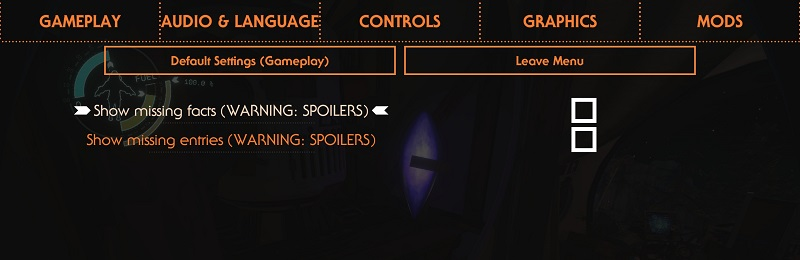
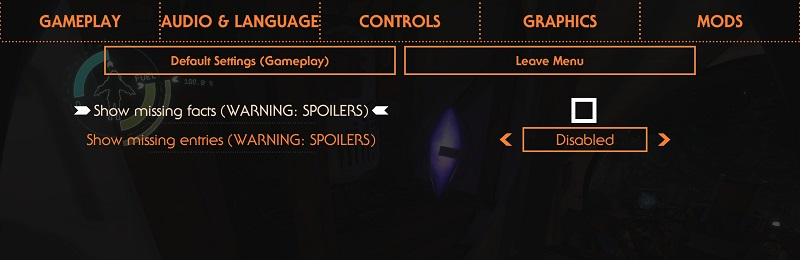
Update README with Unnamed option

Changed region(s): [[0.5, 0.4308, 0.5938, 0.8], [0.625, 0.4615, 0.8438, 0.5846], [0.1562, 0.3077, 0.2188, 0.3692]]

diff --git a/README.md b/README.md
@@ -6,7 +6,7 @@ Marks ship log entries that have missing facts required for the Archaeologist ac
 
 ## Basic usage
 
-In Outer Wilds, when an entry **isn't** displayed as *"There's more to explore here."* it doesn't mean that all of its facts are revealed, there are some facts that don't affect that mark, and some of them are even required for the Archaeologist achievement. For example, the Timber Hearth Village entry has 2 facts that are needed for the achievement, but this entry is never marked as *"There's more to explore here."*:
+In Outer Wilds, when an ship log entry **isn't** displayed with the *"There's more to explore here."* mark it doesn't mean that all of its facts are revealed. There are some facts that don't affect that mark, and some of them are even required for the Archaeologist achievement. For example, the Timber Hearth Village entry has 2 facts that are needed for the achievement, but this entry is never marked as *"There's more to explore here."*:
 
 ![example-disabled](images/example-disabled.jpg)
 
@@ -44,6 +44,16 @@ A setting to show all unrevealed entries that have facts that Archaeologist requ
 
 Sometimes it could look like your ship log is complete when it actually isn't because there are entire entries aren't revealed. If you are in this situation, you could enable this setting to show them.
 
-![example-showall-entries](images/example-showall-entries.png)
+The entries will be displayed as rumors (no photos, only the orange "?") and without facts (the description will be empty). There are two possible enabled options for this setting: `Unnamed` and `Named` (if you don't want to show the missing entries, select `Disabled`, this is the default option). 
 
-**Beware of spoilers**, the entries will be displayed as rumors (no photos, only the "?") and without facts (the description will be empty) but it with display the real entry name, that could reveal you important information. Don't worry about the DLC, none of the logs added by Echoes of the Eye are required for the achievement, so no information about it would be spoiled by this. 
+With `Unnamed`, the missing entries names will be shown as *"MISSING ENTRY"*:
+
+![example-showall-entries-unnamed](images/example-showall-entries-unnamed.jpg)
+
+With `Named`, the real entry name will be displayed:
+
+![example-showall-entries-named](images/example-showall-entries-named.png)
+
+*The last 3 entry names are blurred in the example image to avoid spoilers*
+
+**Beware of spoilers**, the entry names of the `Named` could reveal you important information, but also the `Unnamed` options is able to spoil you things like the planet of the entry (it could even be one you don't now about) or its position and color in Rumor Mode, but this shouldn't be an issue if you won the game. Don't worry about the DLC, none of the logs added by Echoes of the Eye are required for the achievement, so no information about it would be spoiled by this.
